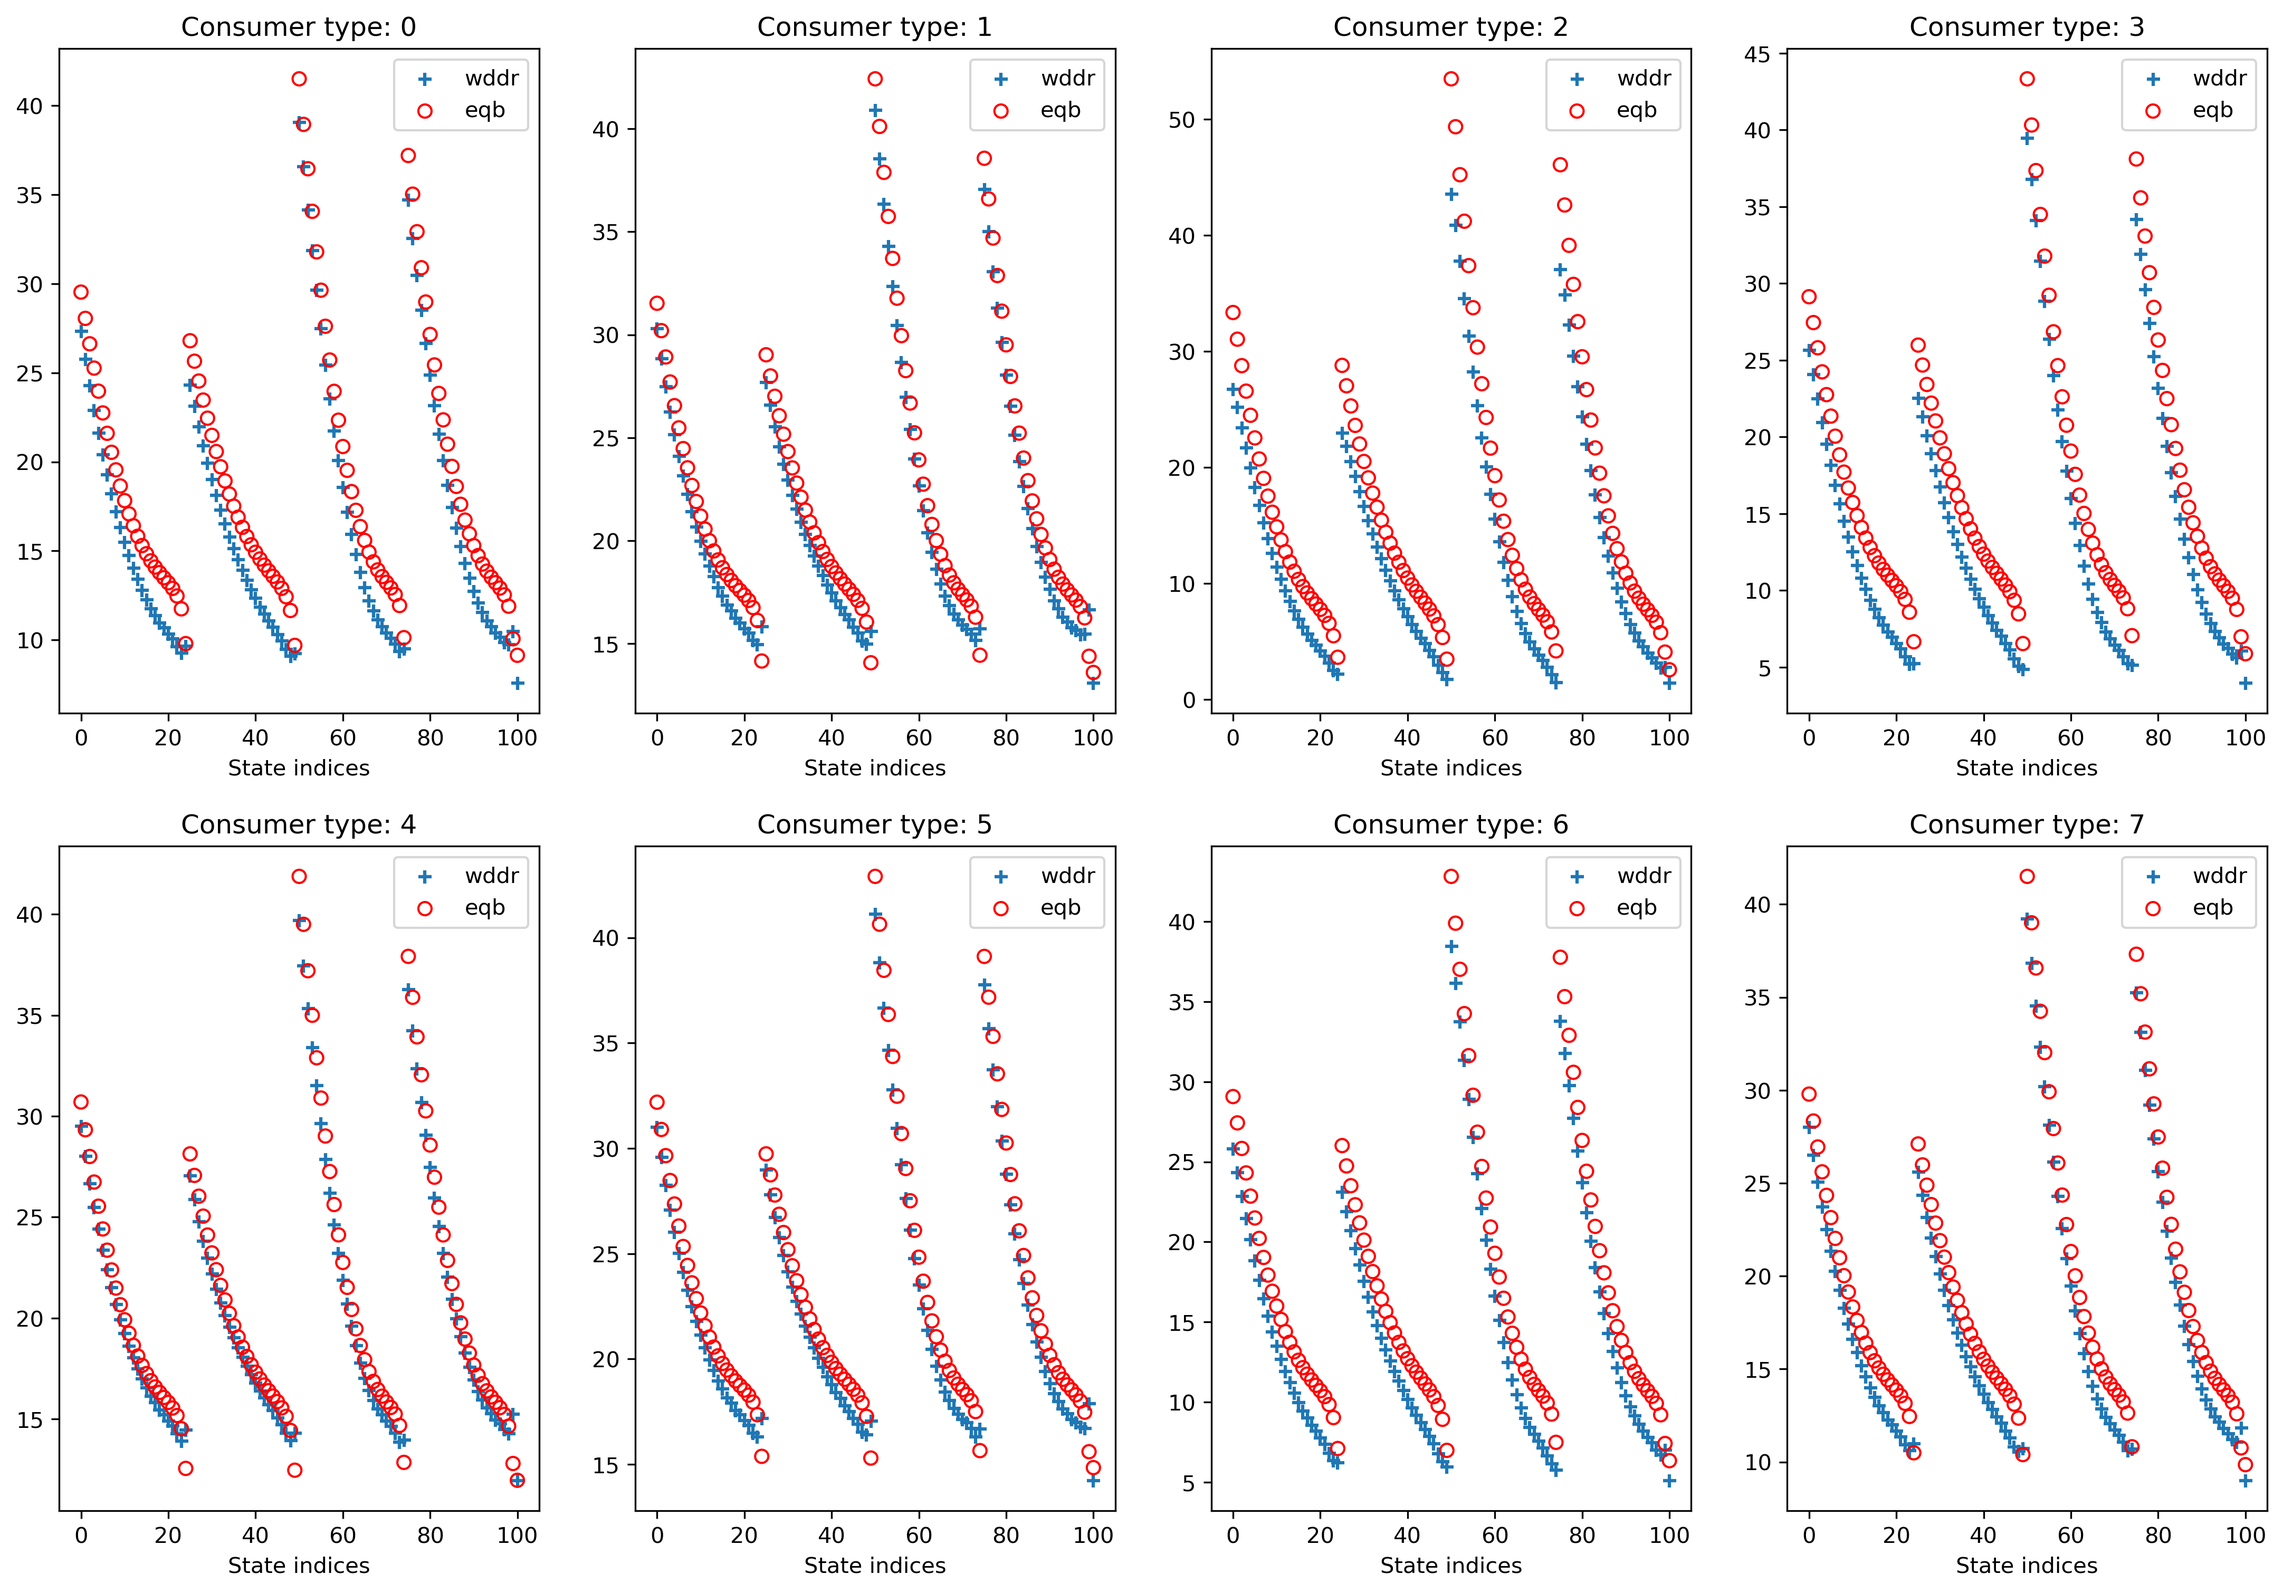
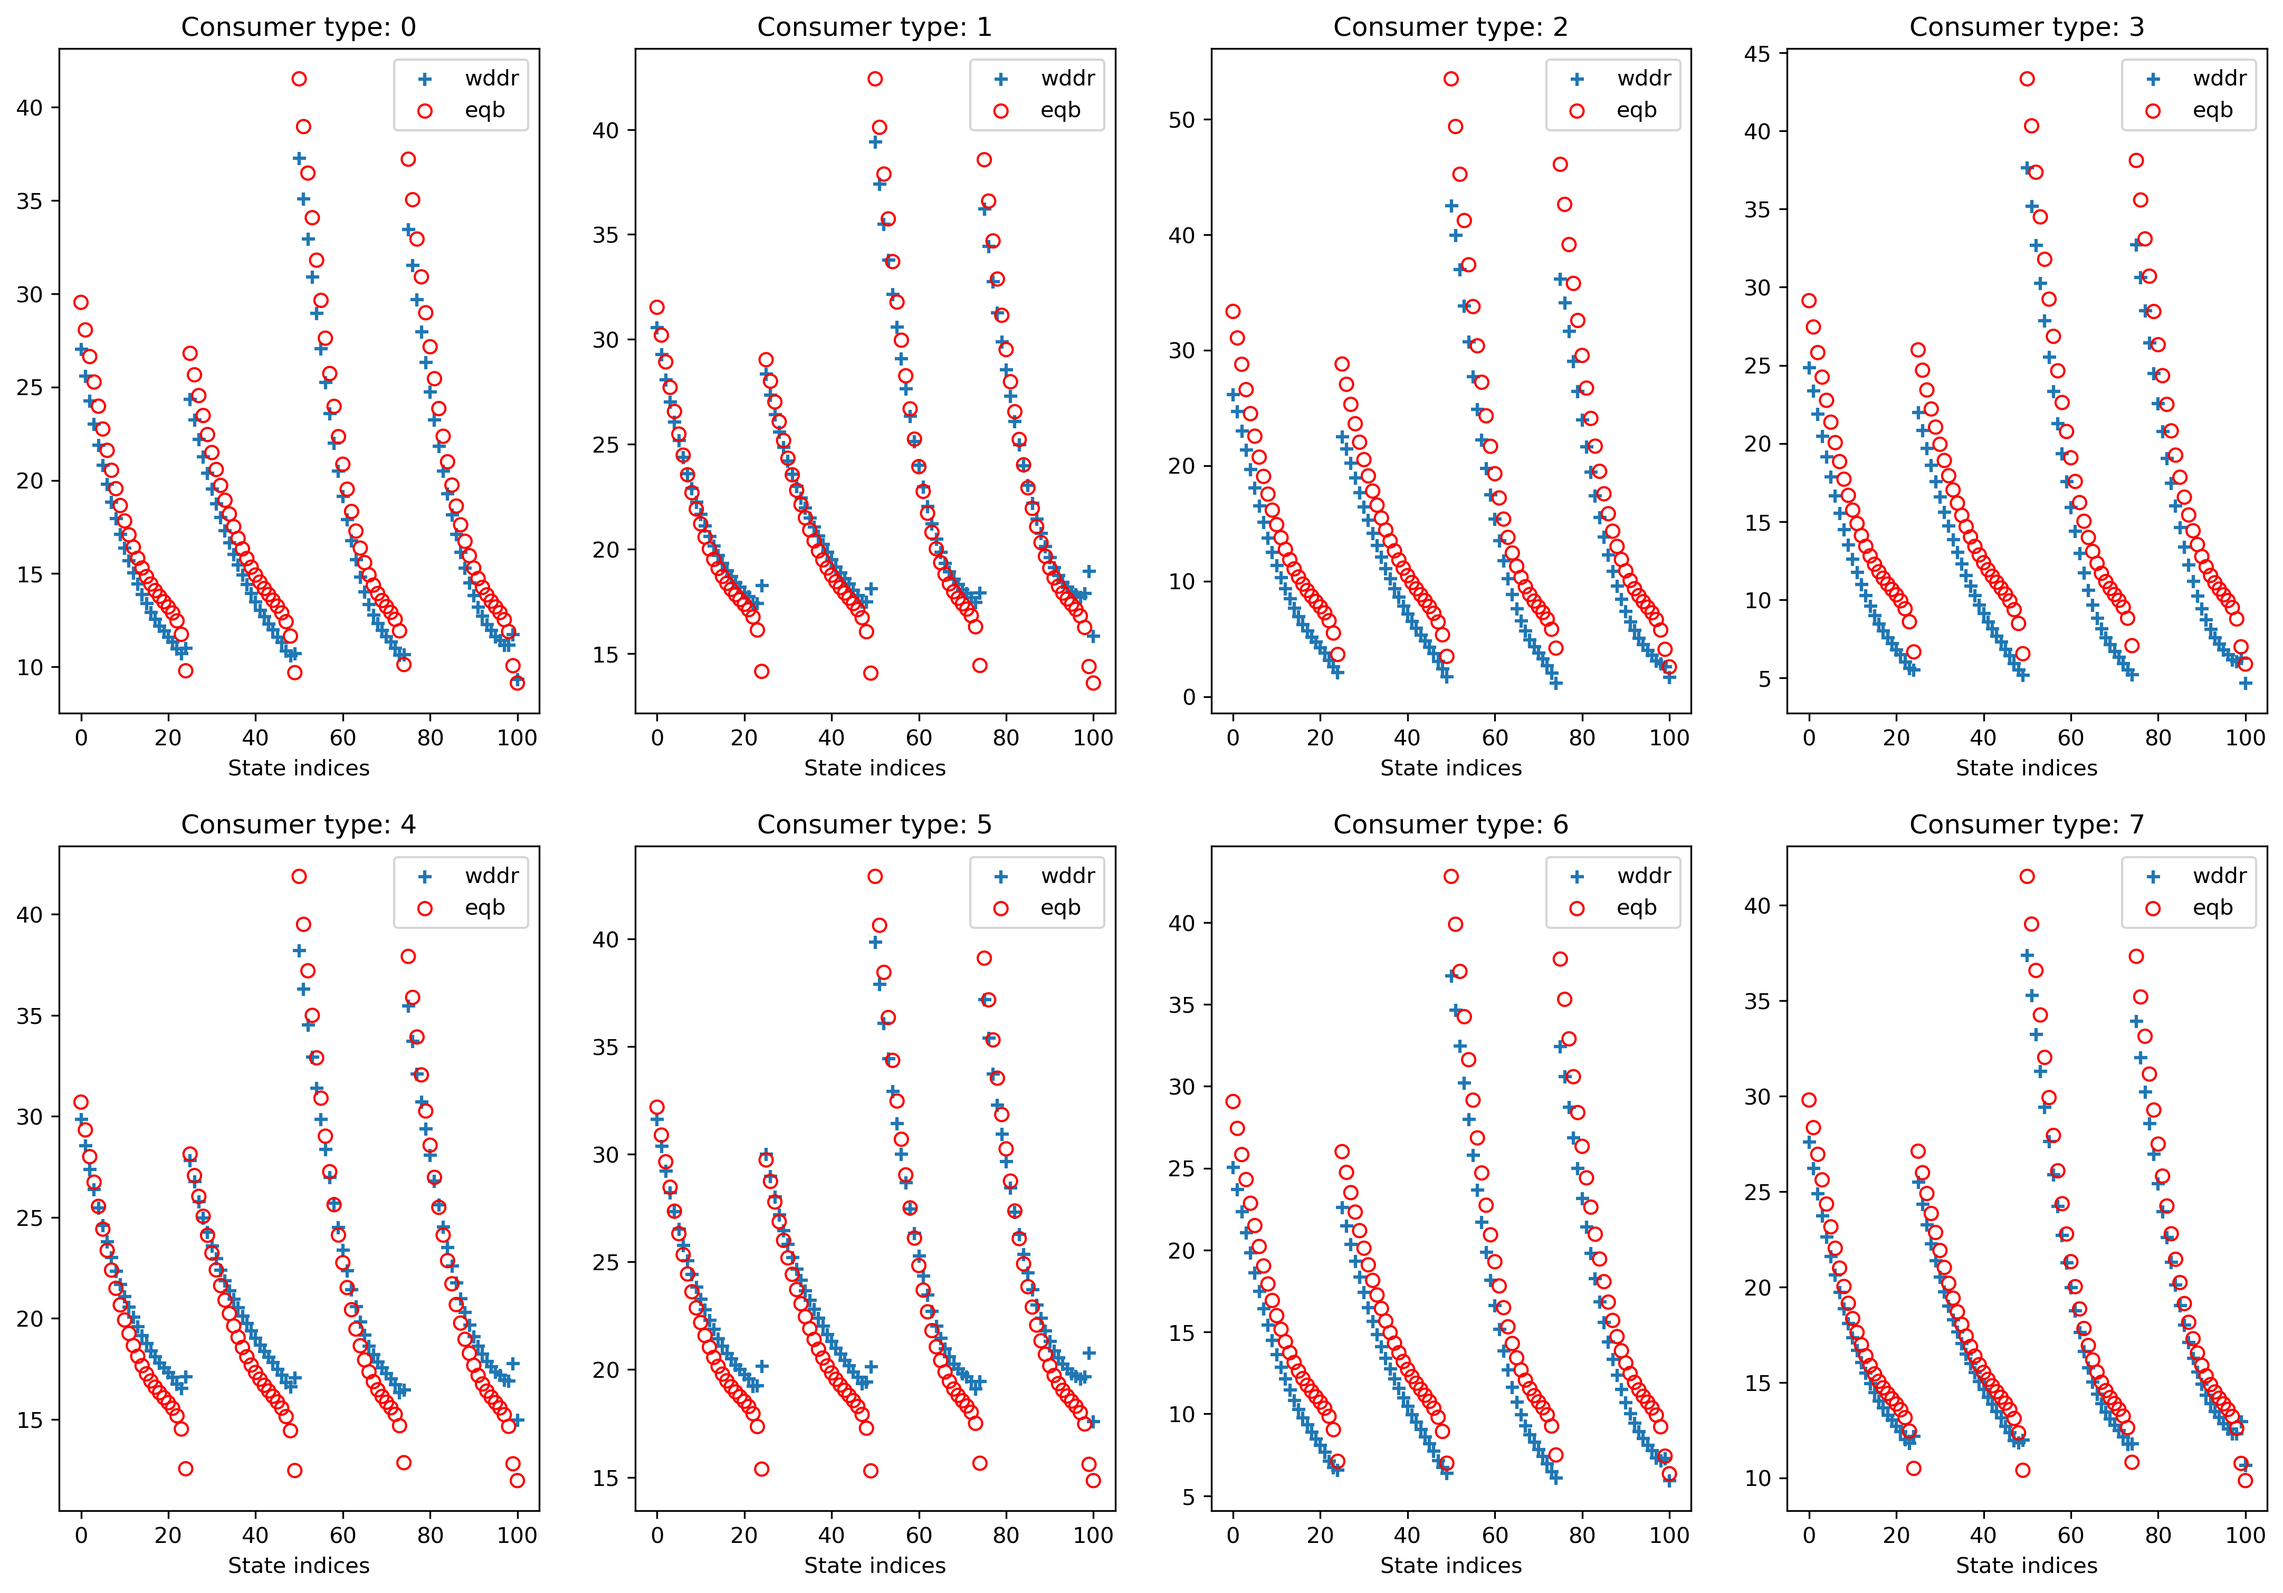
Storing replication results

diff --git a/output/replication/setup_1/results/results comparison.md b/output/replication/setup_1/results/results comparison.md
@@ -1,20 +1,20 @@
 |    | variablename    | consumer_type   | car_type   |   wddr coefficient |   eqb coefficient |
 |---:|:----------------|:----------------|:-----------|-------------------:|------------------:|
-|  0 | mum             | 0               | all        |             0.1036 |            0.1061 |
-|  1 | mum             | 1               | all        |             0.0865 |            0.0898 |
-|  2 | mum             | 2               | all        |             0.1488 |            0.1739 |
-|  3 | mum             | 3               | all        |             0.1207 |            0.1262 |
-|  4 | mum             | 4               | all        |             0.0881 |            0.0949 |
-|  5 | mum             | 5               | all        |             0.0825 |            0.0863 |
-|  6 | mum             | 6               | all        |             0.1149 |            0.1225 |
-|  7 | mum             | 7               | all        |             0.0992 |            0.1029 |
-|  8 | psych_transcost | all             | all        |            -6.6515 |            7.1927 |
-|  9 | sigma_s         | all             | all        |             2.4471 |            3.0431 |
-| 10 | u_0             | all             | 1          |             2.9101 |            2.9832 |
-| 11 | u_0             | all             | 2          |             2.4202 |            2.5144 |
-| 12 | u_0             | all             | 3          |             4.564  |            4.6487 |
-| 13 | u_0             | all             | 4          |             4.0001 |            4.0805 |
-| 14 | u_a             | all             | 1          |            -0.1434 |           -0.146  |
-| 15 | u_a             | all             | 2          |            -0.1086 |           -0.1146 |
-| 16 | u_a             | all             | 3          |            -0.2195 |           -0.2243 |
-| 17 | u_a             | all             | 4          |            -0.1943 |           -0.1968 |
+|  0 | mum             | 0               | all        |             0.0914 |            0.1061 |
+|  1 | mum             | 1               | all        |             0.0719 |            0.0898 |
+|  2 | mum             | 2               | all        |             0.1444 |            0.1739 |
+|  3 | mum             | 3               | all        |             0.1122 |            0.1262 |
+|  4 | mum             | 4               | all        |             0.0726 |            0.0949 |
+|  5 | mum             | 5               | all        |             0.0666 |            0.0863 |
+|  6 | mum             | 6               | all        |             0.1062 |            0.1225 |
+|  7 | mum             | 7               | all        |             0.0872 |            0.1029 |
+|  8 | psych_transcost | all             | all        |            -6.3492 |            7.1927 |
+|  9 | sigma_s         | all             | all        |             0.73   |            3.0431 |
+| 10 | u_0             | all             | 1          |             2.7198 |            2.9832 |
+| 11 | u_0             | all             | 2          |             2.2973 |            2.5144 |
+| 12 | u_0             | all             | 3          |             4.0985 |            4.6487 |
+| 13 | u_0             | all             | 4          |             3.6311 |            4.0805 |
+| 14 | u_a             | all             | 1          |            -0.128  |           -0.146  |
+| 15 | u_a             | all             | 2          |            -0.0983 |           -0.1146 |
+| 16 | u_a             | all             | 3          |            -0.1879 |           -0.2243 |
+| 17 | u_a             | all             | 4          |            -0.1681 |           -0.1968 |
